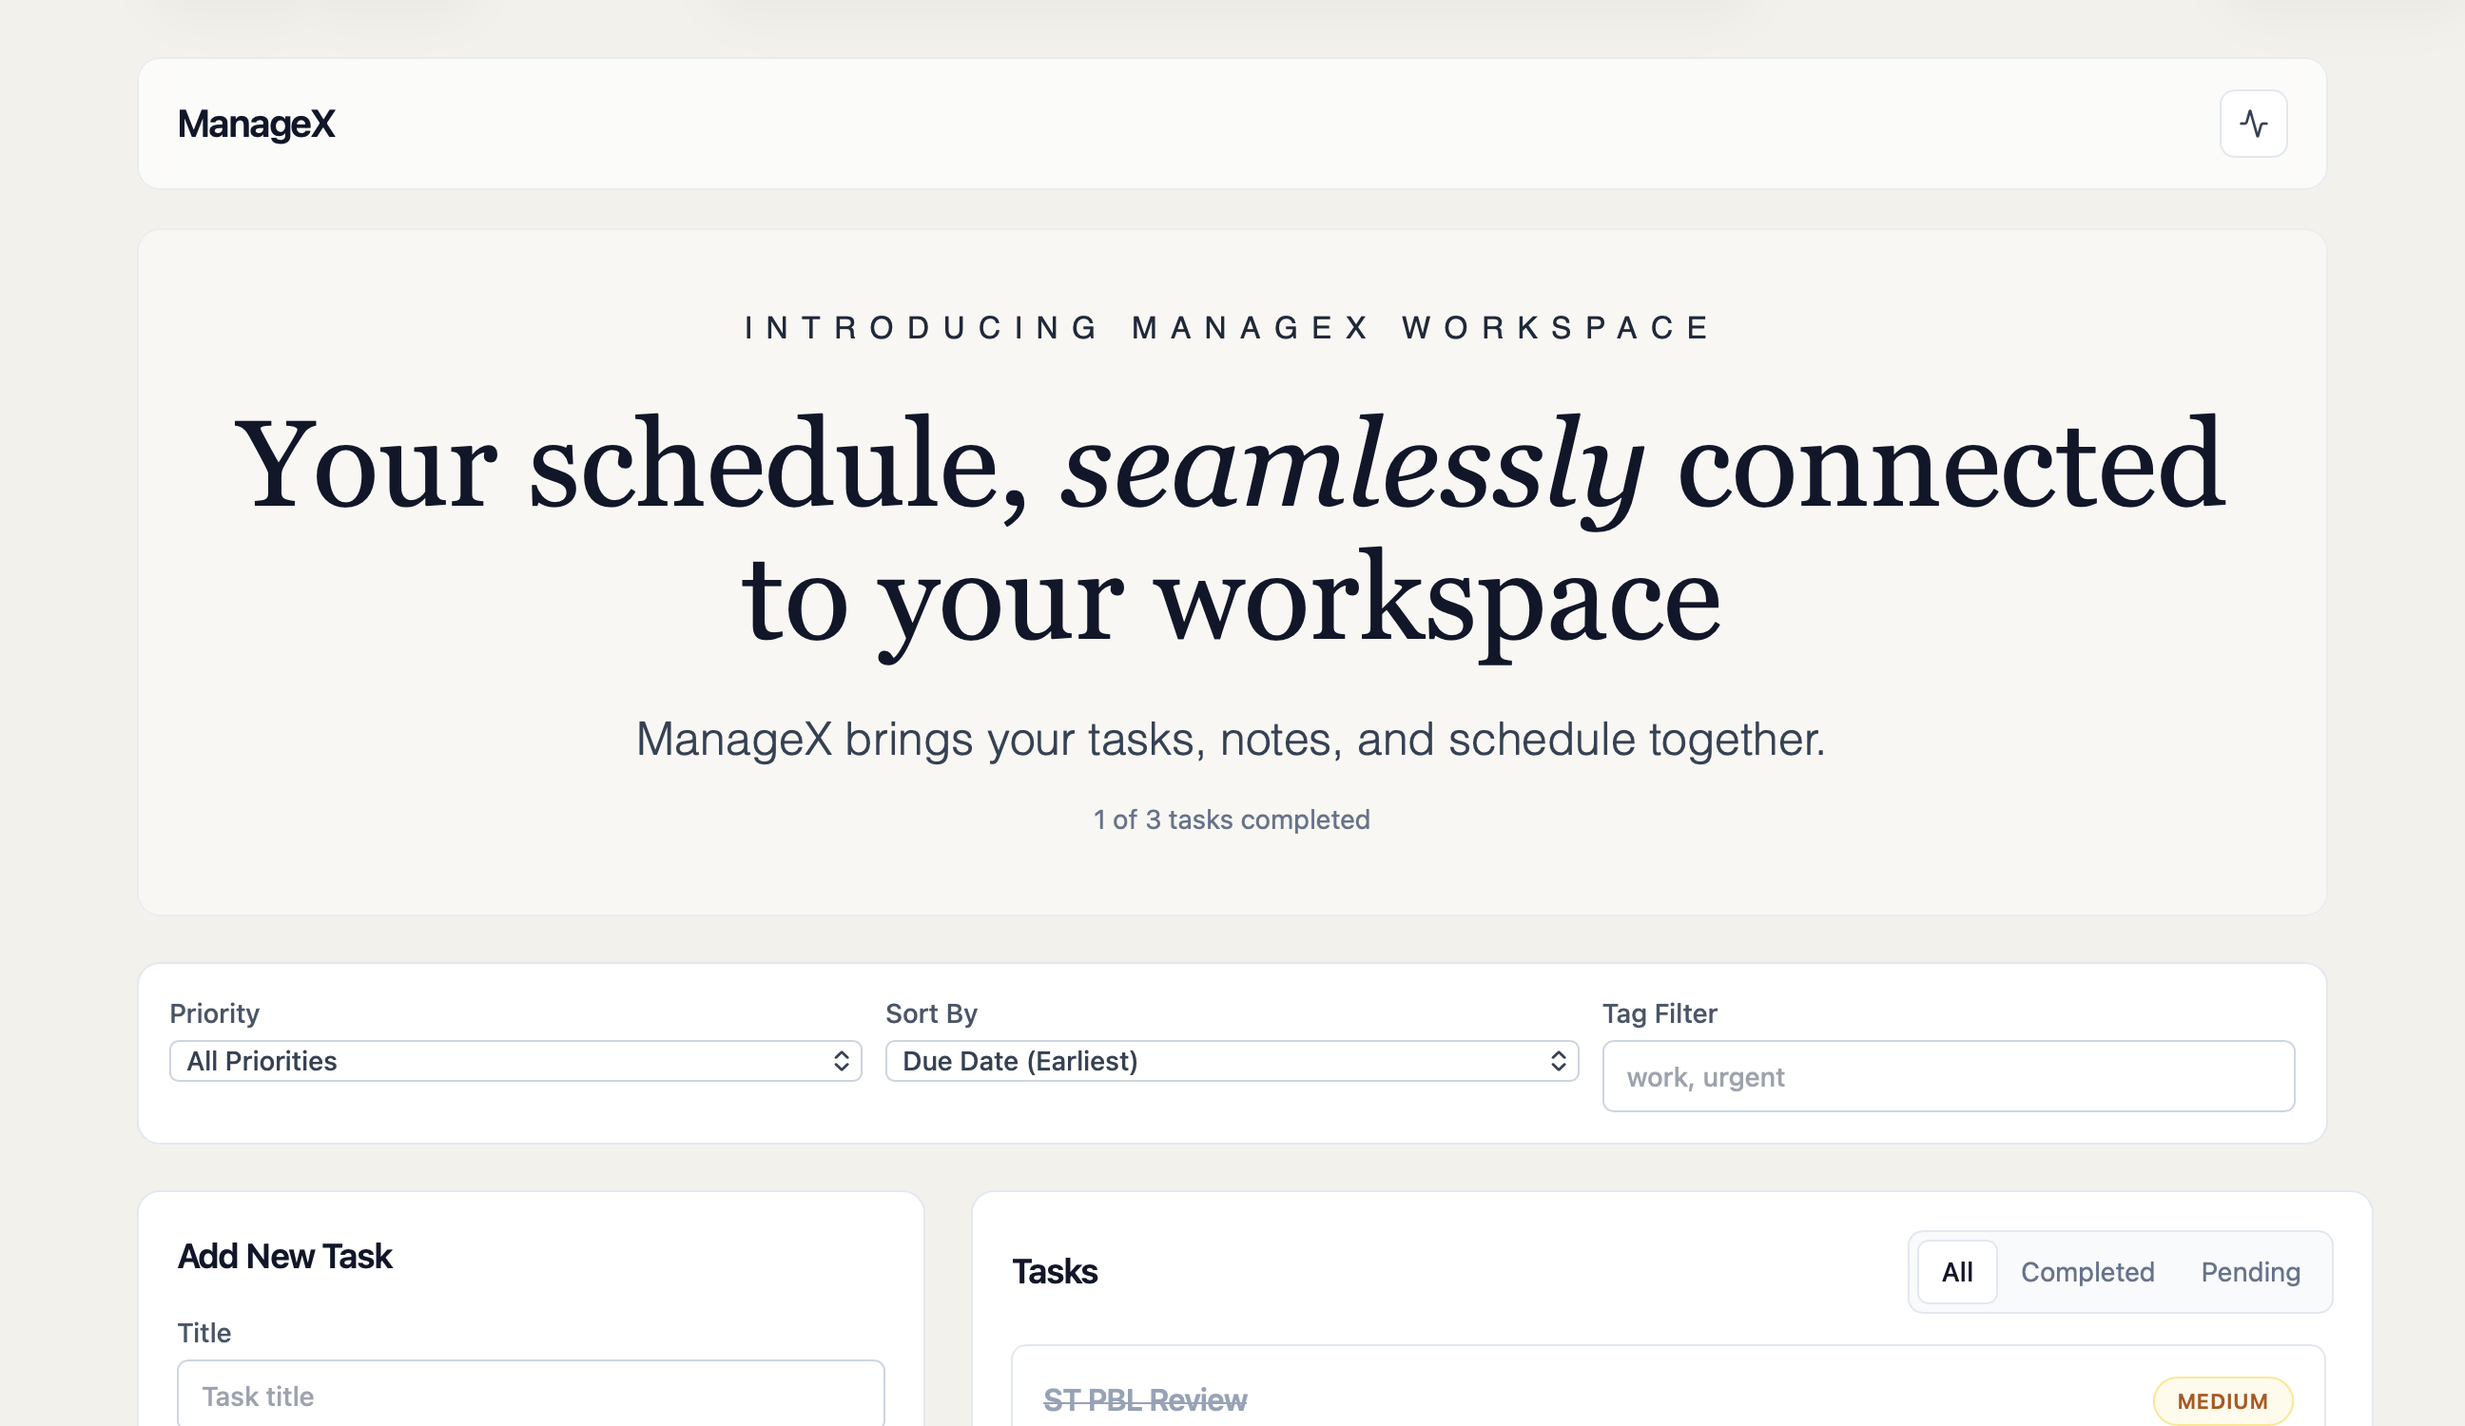
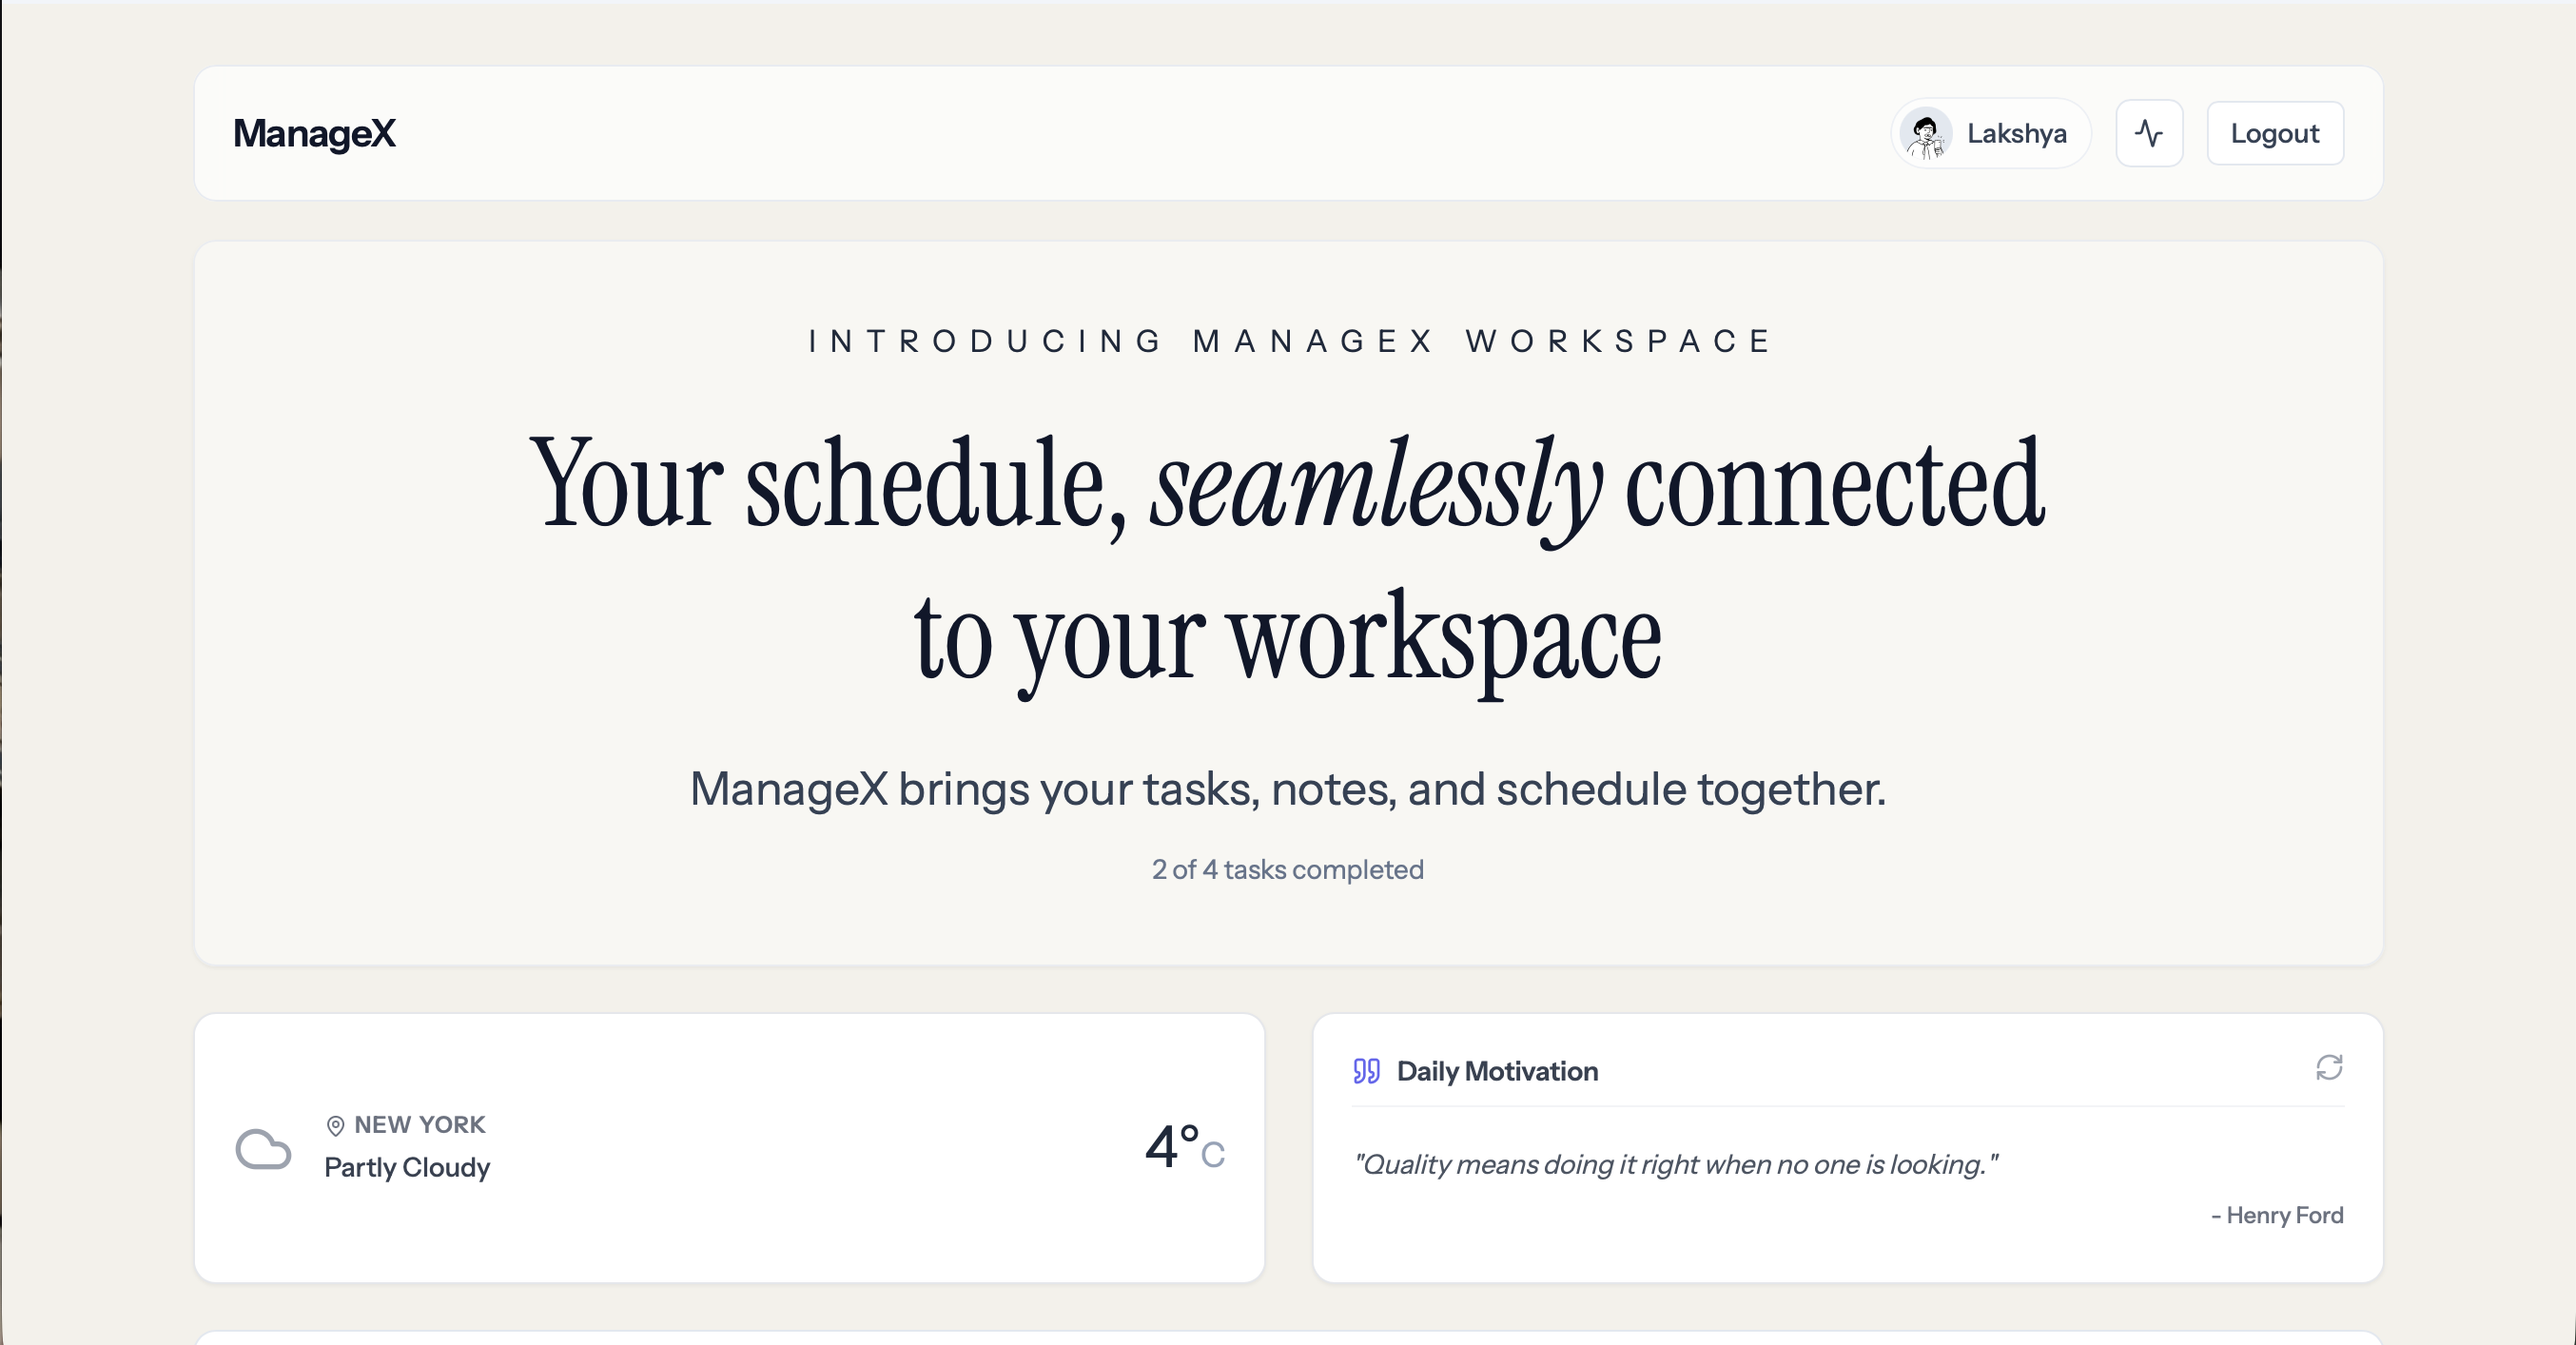
update project showcase

diff --git a/README.md b/README.md
@@ -23,6 +23,9 @@
 - 📌 **Task Notes**: Add detailed notes and descriptions to each task
 - 🔍 **Advanced Filtering**: Filter and sort tasks by priority, status, and more
 - 📊 **Progress Dashboard**: Visualize task completion with contribution-style heatmap analytics
+- 🌤 **Dashboard Widgets**: Dynamic real-time weather and motivational quote widgets integrated seamlessly
+- 🗓 **Calendar Sync**: One-click functionality to instantly add tasks and reminders directly to Google Calendar
+- 👤 **Dynamic Avatars**: Auto-generated, personalized user avatars powered by the DiceBear API
 - 📱 **Fully Responsive**: Optimized for desktop, tablet, and mobile devices
 - 🎨 **Modern UI/UX**: Clean, intuitive interface for optimal user experience
 
@@ -46,6 +49,11 @@
 ### Database
 - **MongoDB Atlas** - Cloud database
 - **Mongoose 8** - Schema validation & modeling
+
+### External APIs
+- **WeatherAPI** - Real-time weather forecasting
+- **ZenQuotes API** - Daily motivational quotes
+- **DiceBear API** - Dynamic avatar generation
 
 ---
 
@@ -134,6 +142,7 @@ PORT=5000
 MONGODB_URI=mongodb+srv://username:password@cluster.mongodb.net/managex
 JWT_SECRET=your_super_secret_jwt_key_here_change_in_production
 JWT_EXPIRES_IN=7d
+WEATHER_API_KEY=your_weatherapi_key_here
 NODE_ENV=development
 ```
 
@@ -212,6 +221,11 @@ npm run dev
 - `GET /tasks` - Fetch tasks with optional filters/sort (auth required)
 - `PUT /tasks/:id` - Update a task (auth required)
 - `DELETE /tasks/:id` - Delete a task (auth required)
+
+### External Integrations
+
+- `GET /api/weather?city={cityName}` - Proxy for live weather data
+- `GET /api/quotes/random` - Proxy for daily motivational quotes
 
 For protected task routes, include header:
 
